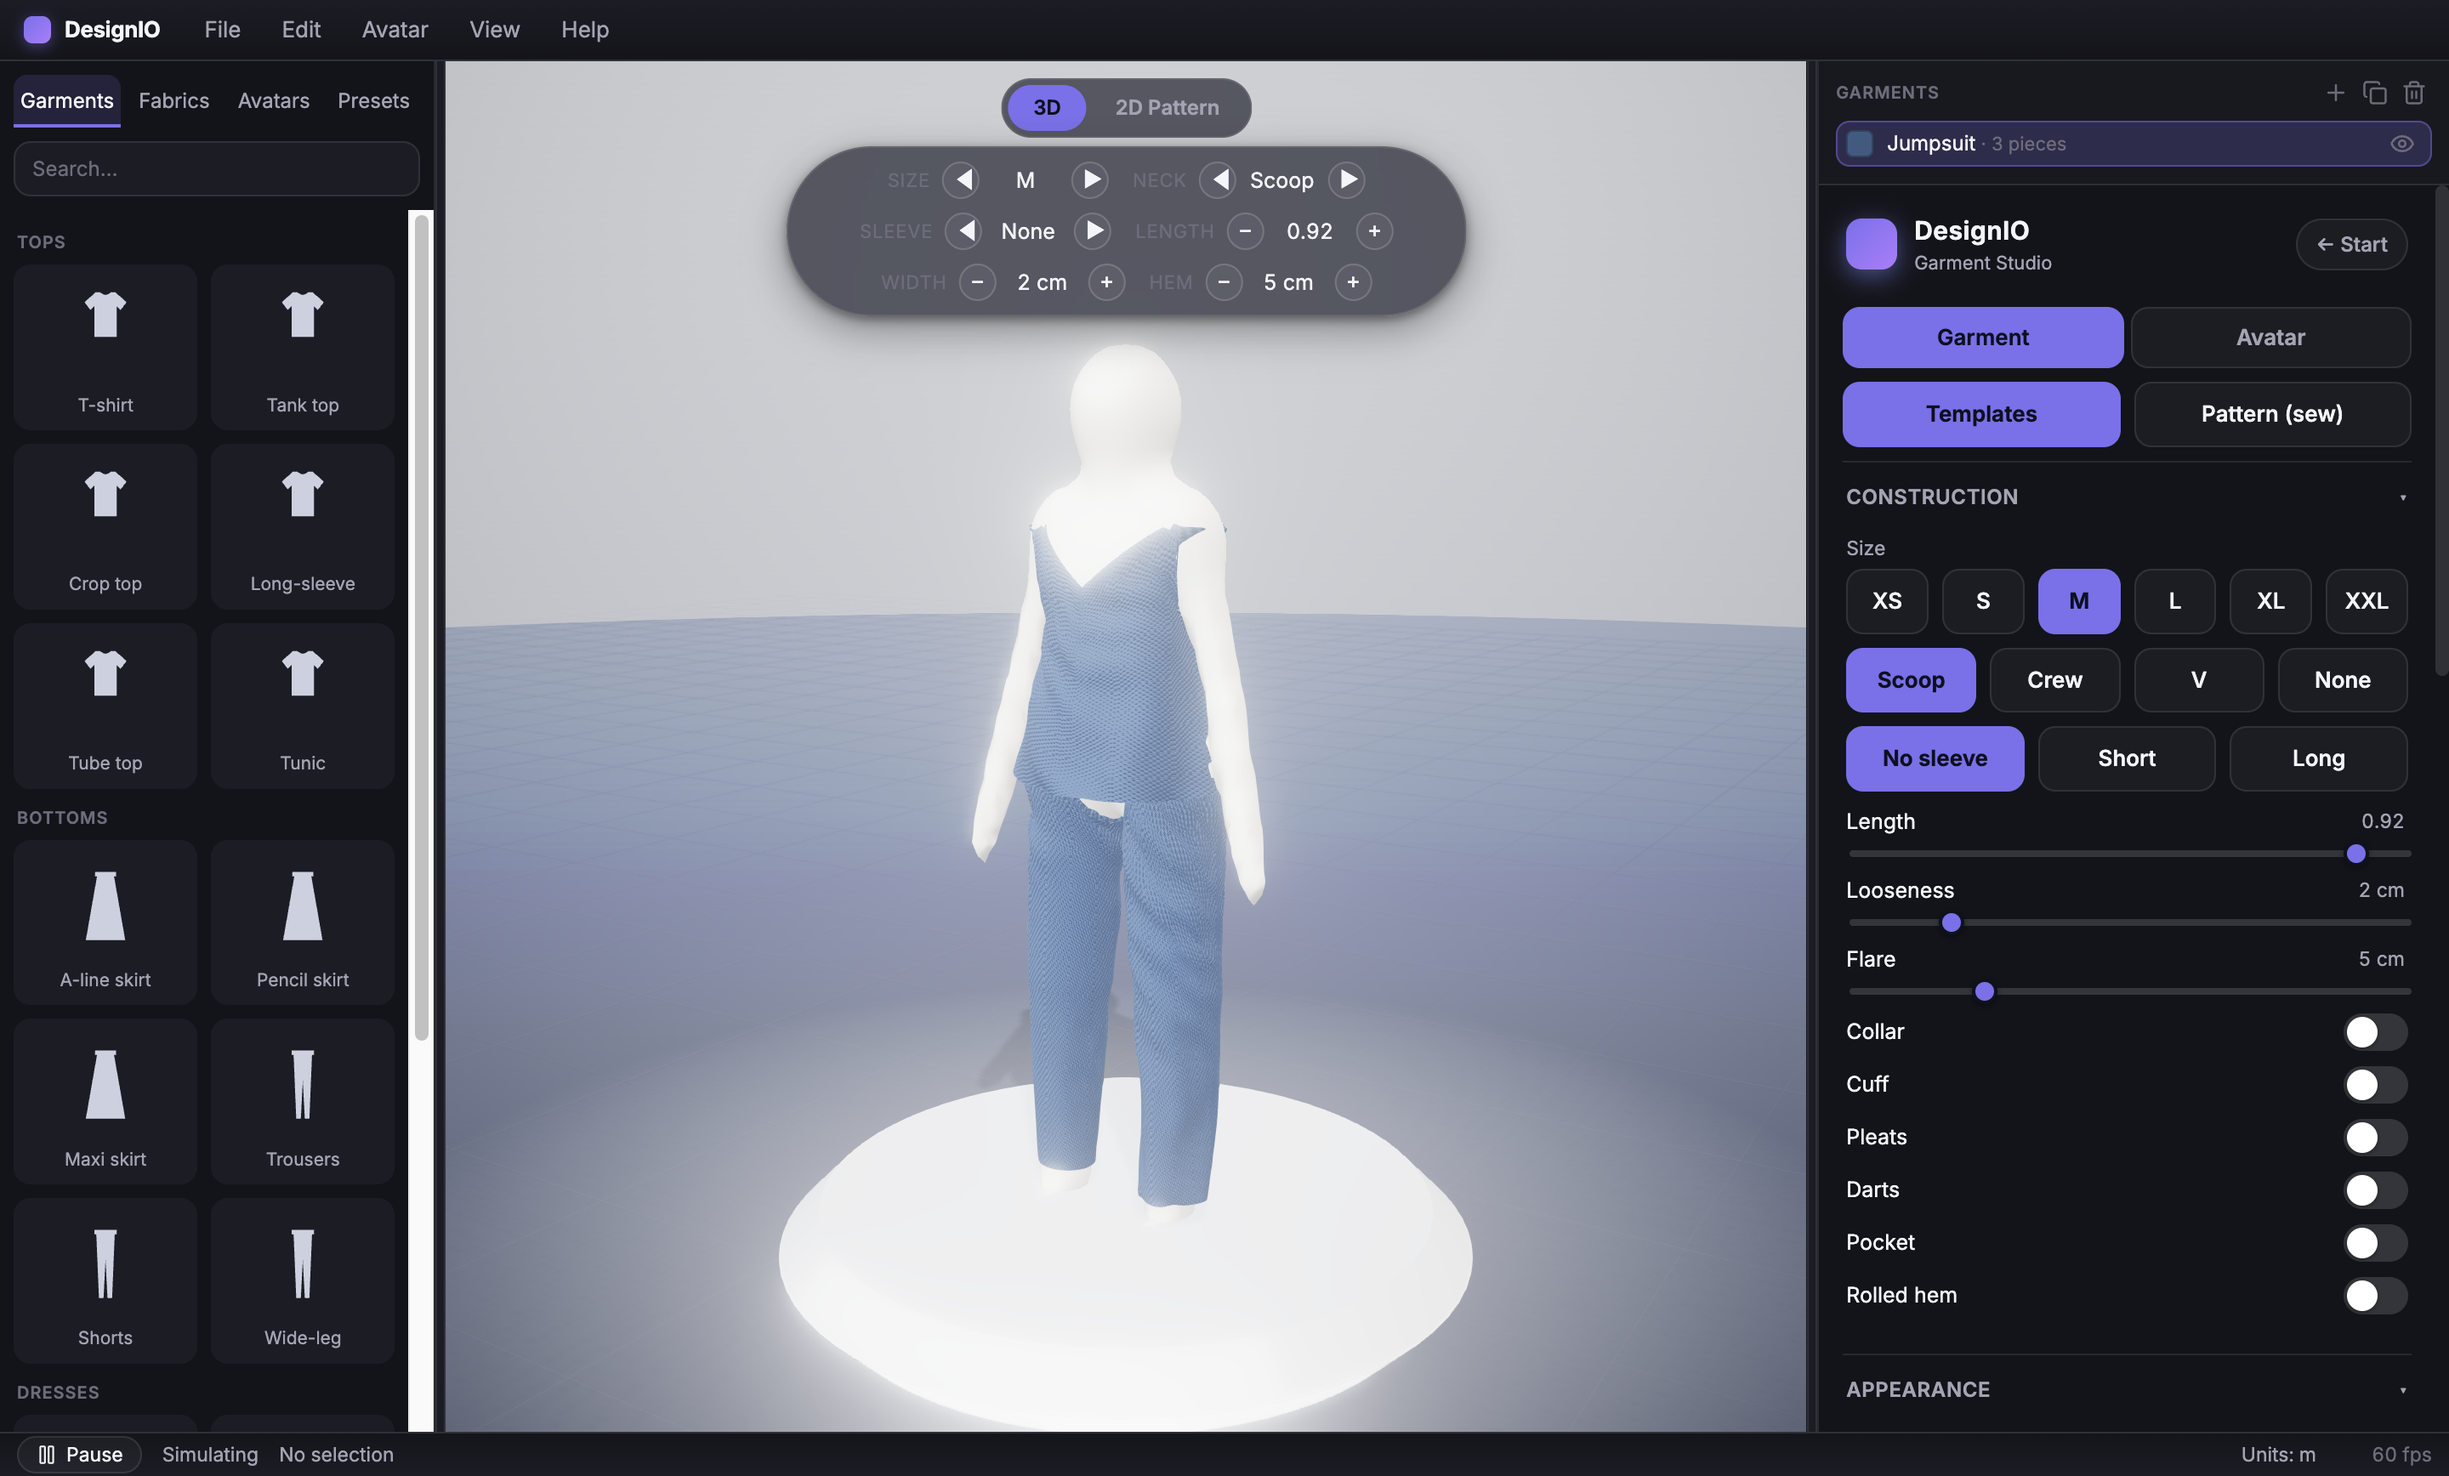
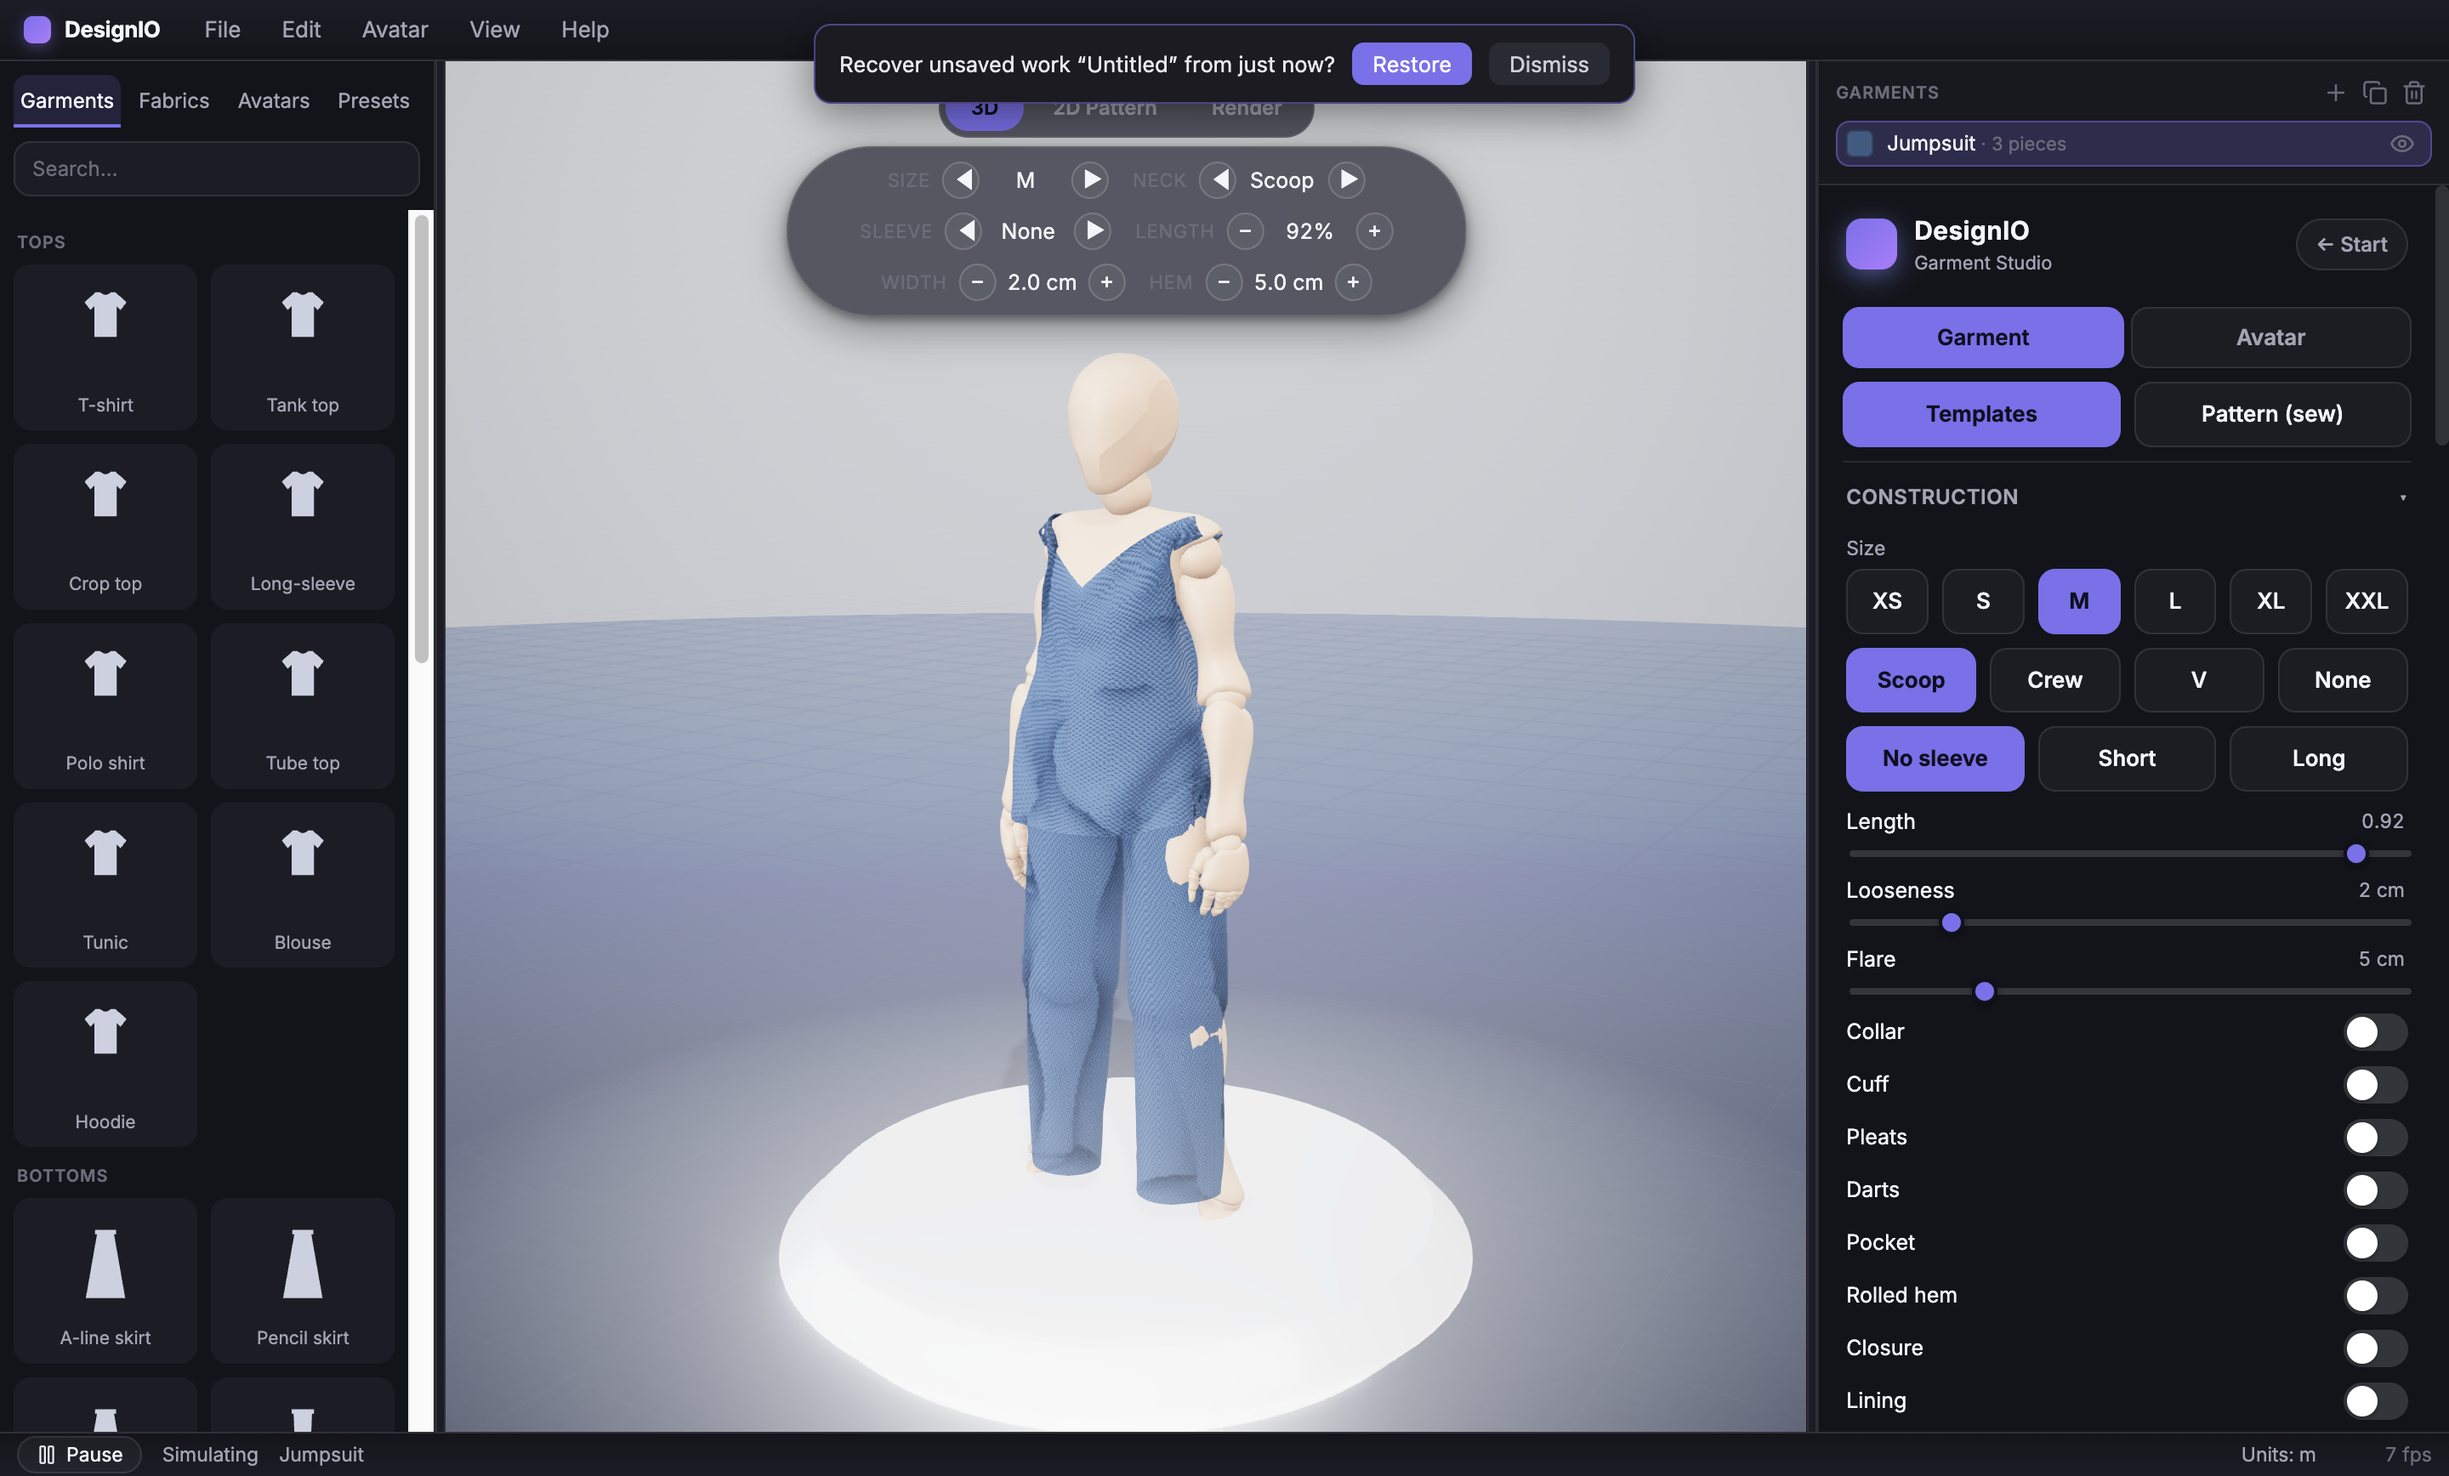
fix: jumpsuit torso/leg junction + ClothWorld skin offset
Second (small) half of the garment correctness pass.

- registry.ts (jumpsuit): the torso bodyTube ended at the hip while the legTubes
  start at the hip, leaving a bare-body crotch gap. Extend the torso hemDrop
  0.52 → 0.58 so it overlaps the leg tops — the one-piece now reads continuous.
  (hemDropHi==Lo stays intentional: the bodice is fixed, the legs carry length.)
- ClothWorld.ts: the sewn-panel solver's capsule broadphase tested `dist >=
  cap.radius` (no skin), so panels rested on the bare capsule surface — whereas
  its own mesh solveBody (L173) and XPBDSolver (L634) offset by bodySkin. Add
  `+ this.bodySkin` to the threshold and the push-out so sewn cloth rests a
  garment-thickness off the body, consistently.
- docs/catalog-jumpsuit.png regenerated.

Confirmed via captures: jumpsuit continuous, Pattern-sew still drapes cleanly,
slip-dress renders solid in satin (the earlier "faint" was just crepe's pale-grey
default colour — no bug).

typecheck + 418 tests + build green.

diff --git a/src/renderer/cloth/ClothWorld.ts b/src/renderer/cloth/ClothWorld.ts
@@ -309,7 +309,7 @@ export class ClothWorld {
         let ny = this._p.y - this._c.y
         let nz = this._p.z - this._c.z
         let dist = Math.sqrt(nx * nx + ny * ny + nz * nz)
-        if (dist >= cap.radius) continue
+        if (dist >= cap.radius + this.bodySkin) continue // rest a garment-thickness off the body (matches solveBody + XPBDSolver)
         if (dist < 1e-6) {
           nx = 0
           ny = 1
@@ -320,7 +320,7 @@ export class ClothWorld {
         nx *= inv
         ny *= inv
         nz *= inv
-        const pen = cap.radius - dist
+        const pen = cap.radius + this.bodySkin - dist // push out to the skin offset, not the bare surface
         pos[i] += nx * pen
         pos[i + 1] += ny * pen
         pos[i + 2] += nz * pen

diff --git a/src/renderer/garments/registry.ts b/src/renderer/garments/registry.ts
@@ -287,8 +287,9 @@ export const GARMENTS: GarmentDefinition[] = [
       {
         kind: 'bodyTube',
         topAnchor: 'shoulder',
-        hemDropHi: 0.52,
-        hemDropLo: 0.52,
+        // the torso extends past the hip so it overlaps the leg-tube tops (no bare crotch gap)
+        hemDropHi: 0.58,
+        hemDropLo: 0.58,
         topR: 'chest',
         botR: 'hip',
         neckline: true

diff --git a/KANBAN.md b/KANBAN.md
@@ -198,6 +198,7 @@ Legend: ✅ done · 🔄 in progress · 📋 backlog
 - [x] **Expose `headR`/`neckR` in `Measurements`** — added to the interface + `measurementsFor`/`applyBody` (scale with build), so `headTubeToSpec` + headwear fit read them — PR #184
 - [x] **Pin headwear to the head anchor** — `bindPinsToBody` routes a crown headwear piece (a beanie/hat) to the **head** anchor via a pure `pieceAnchor(name,…)` (head → head · sleeve → arm · else → nearer of torso/hip), so it turns/nods with the head; shipped a cloth-sim **beanie** catalog garment (crown `headTube`) that rides the head; `pieceAnchor` unit-tested + a headless drape-stability check — PR #185
 - [ ] **Snug-knit collision tuning** — a tighter `bodySkin`/offset for knits so a beanie hugs the crown without hovering
+- [x] **Garment correctness pass** — a grounded visual audit of all 31 garments (offscreen render + inspect) + a cloth-physics code audit. Result: 26/31 already correct and the solver/collision/anchor math is sound (verified & rejected two false "bugs" — the aero-drag term and the jumpsuit `hemDrop`). Fixes: the **beanie crown** (below), the **jumpsuit** torso now overlaps the leg tops so the one-piece reads continuous (no bare crotch gap; `hemDrop 0.52→0.58`), and `ClothWorld`'s capsule broadphase rests cloth a `bodySkin` off the body (was `>= cap.radius`, now `+ bodySkin` — matches its own `solveBody` + `XPBDSolver`, so sewn panels don't rest on the bare surface). The **snood + scarf were confirmed already correct** (only looked "invisible" in oat-beige-on-beige), and the **slip-dress** is fine (crepe is just pale grey — renders solid in satin). README jumpsuit photo refreshed
 - [x] **Fix the cloth beanie crown** — the beanie's `headTube` was an **open** flared cone (`topScale 0.38` → a hole at the crown, `botScale 1.3` → flared band) so the head dome poked through the top and the fabric sat as a low band with the crown bare. Re-proportioned to a gathered-closed crown that domes over the head (`topScale 0.13`, `botScale 1.28`, drop `0.26–0.32`): it now caps the crown, covers down the head, and stays put when the head turns/nods. A grounded visual audit confirmed the **snood + scarf were already correct** (they only looked "invisible" in oat-beige-on-beige). Guard test added (crown radius ≪ bottom, catches a re-opened cone); README photo refreshed — PR #202-ish
 - [x] **Cloth-sim draping scarf** — a flat **open** knit panel (new `scarfPanel` piece → `buildScarf`/`fillScarf`, solved with `wrapX: false`) wrapped once around the neck: the collar is pinned as a stable band that follows the body, the two front tails hang + drape under gravity clear of the chest; a robust width frame (vertical on the collar → horizontal on the tails) so it can't collapse; `wrapX` threaded through `SimPiece`/`Piece`/solver; `fillScarf`/`buildScarf` + a headless drape-stability check unit-tested — PR #186
 - [ ] **Cloth-sim ski mask (balaclava)** — a conforming knit shell with a real **face-opening cut-out** (dead particles for eyes/mouth, reusing the cut-out mechanism)
